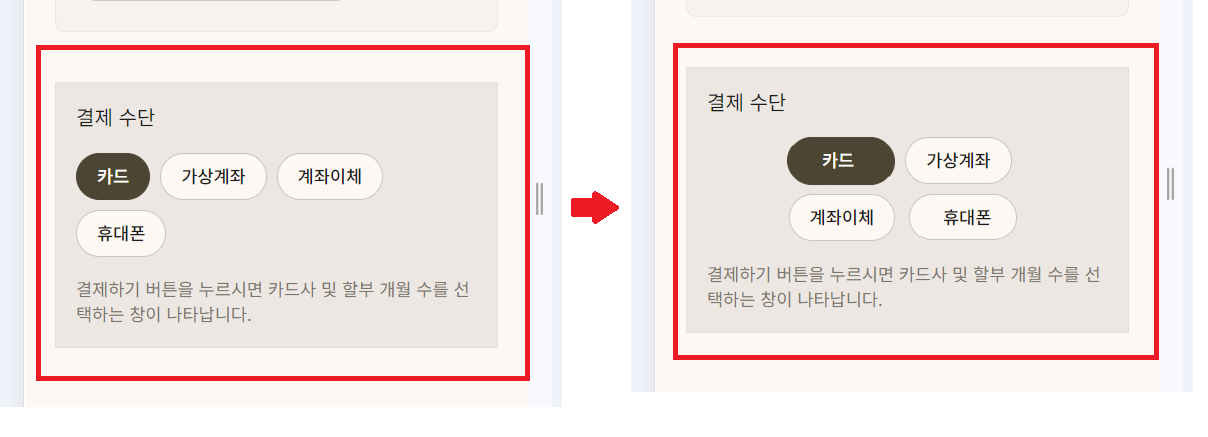
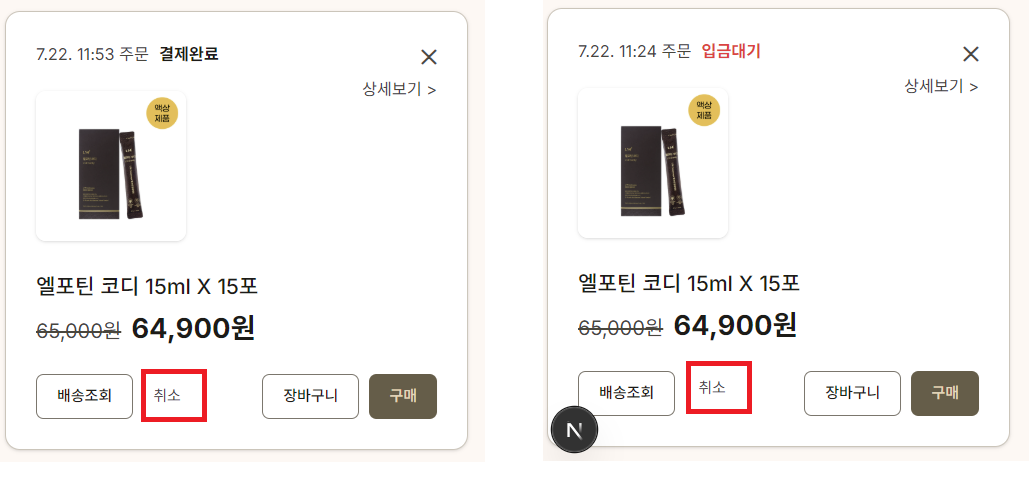
Feat: Allow users to cancel orders with status 99 (pending deposit)

diff --git a/app/mypage/detail/page.tsx b/app/mypage/detail/page.tsx
@@ -318,7 +318,7 @@ function OrderDetailContent() {
 
                   const extraButtons = (
                     <>
-                      {Number(order.status) === 0 && (
+                      {(Number(order.status) === 0 || Number(order.status) === 99) && (
                         <button onClick={() => handleCancelOrder(order.id, order.payment_key)} className="bg-surface-container-lowest border border-outline text-on-surface py-2 px-4 md:px-5 rounded-md text-[12px] md:text-[14px] font-medium hover:bg-surface-container-low transition-colors focus:ring-2 focus:ring-outline outline-none">결제취소</button>
                       )}
                       {Number(order.status) === 2 && (

diff --git a/app/mypage/order/page.tsx b/app/mypage/order/page.tsx
@@ -458,7 +458,7 @@ export default function OrderPage() {
                       <div className="flex justify-between items-center mt-auto w-full">
                         <div className="flex items-center gap-4">
                           <button onClick={() => handleTrackingClick(order.shipment)} className="bg-surface-container-lowest border border-outline text-on-surface py-2 px-4 md:px-5 rounded-md text-[12px] md:text-[14px] font-medium hover:bg-surface-container-low transition-colors focus:ring-2 focus:ring-outline outline-none">배송조회</button>
-                          {order.status === 0 && (
+                          {(order.status === 0 || order.status === 99) && (
                             <div className="flex items-center text-on-surface-variant text-[12px] md:text-[13px] gap-2">
                               <button onClick={() => handleCancelOrder(order.id, order.payment_key)} className="hover:underline">취소</button>
                             </div>